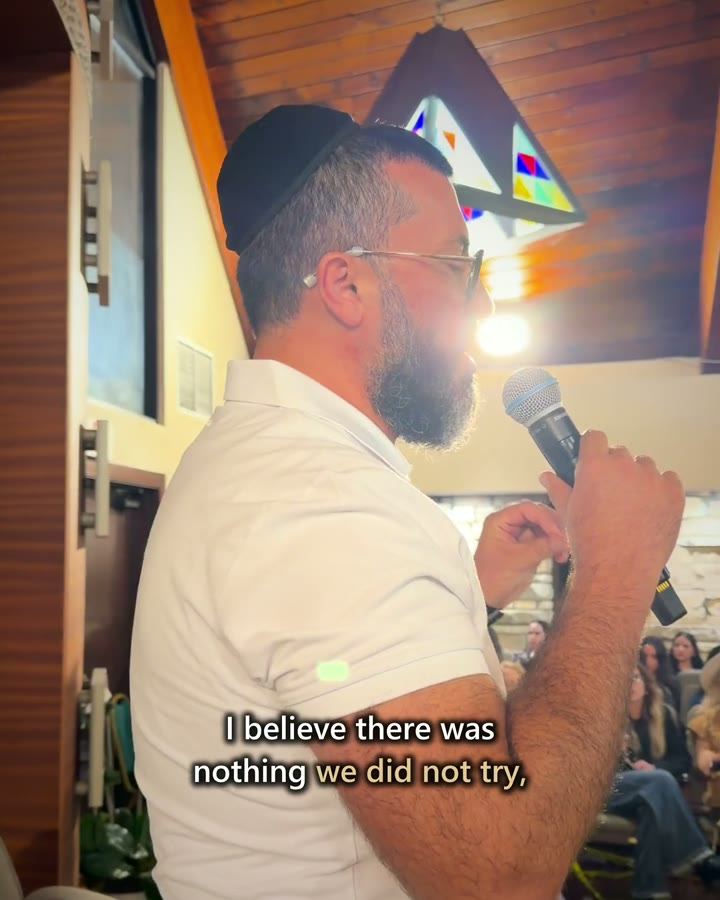
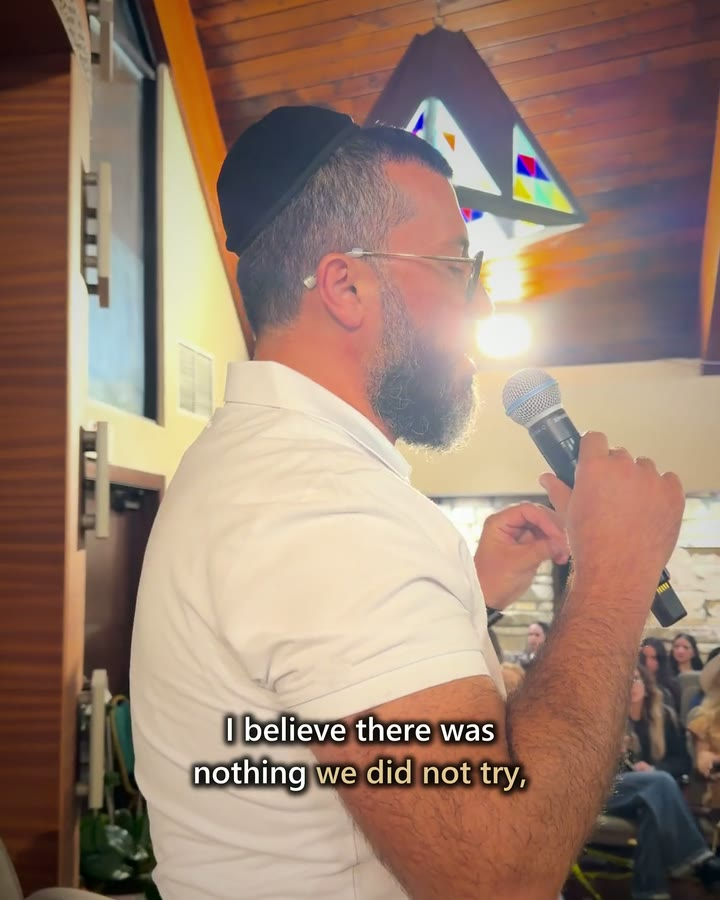
Add files via upload

diff --git a/index.html b/index.html
@@ -5,11 +5,11 @@
 <meta name="viewport" content="width=device-width, initial-scale=1, viewport-fit=cover">
 <meta name="color-scheme" content="light">
 <title>A miracle that has to be told out loud · נס שצריך לספר בקול</title>
-<meta name="description" content="A four-year-old boy is home after a five-organ transplant and 476 days in the hospital. His father speaks on emunah, in English or Hebrew.">
+<meta name="description" content="Lavi Refael is home after a five-organ transplant and 476 days in the hospital. His father speaks on emunah, in English or Hebrew.">
 <meta property="og:type" content="website">
 <meta property="og:url" content="https://lavirafael.github.io/">
 <meta property="og:title" content="A miracle that has to be told out loud · נס שצריך לספר בקול">
-<meta property="og:description" content="A four-year-old boy is home after a five-organ transplant and 476 days in the hospital. His father speaks on emunah, in English or Hebrew.">
+<meta property="og:description" content="Lavi Refael is home after a five-organ transplant and 476 days in the hospital. His father speaks on emunah, in English or Hebrew.">
 <meta property="og:image" content="https://lavirafael.github.io/speaker.jpg">
 <meta property="og:image:width" content="1080">
 <meta property="og:image:height" content="1350">
@@ -85,6 +85,8 @@ h1{font-family:var(--display);font-weight:900;color:var(--ink);line-height:.92;l
 .tally .nonum{align-items:start}
 .n .pre{font-family:var(--text);font-weight:600;font-size:1.1875rem}
 .nonum .n{display:block;width:1.75rem;height:.375rem;margin-top:.6rem;border-radius:999px;background:var(--sky-deep)}
+.tally .lead{display:block;padding-block:0 .35rem;font-weight:700}
+.tally .lead .w{font-weight:700}
 
 /* "And now he is home": louder than every number, marked in the sky colour, beside the day he rang the bell. */
 .arrival{grid-area:arrival;display:grid;grid-template-columns:minmax(0,1fr) 44%;grid-template-areas:"home pic" "cap cap";column-gap:1rem;row-gap:.625rem;align-items:center;margin-top:1.25rem}
@@ -206,7 +208,7 @@ h1{font-family:var(--display);font-weight:900;color:var(--ink);line-height:.92;l
       </div>
       <div class="headline">
         <p class="kicker">Ben Zion Cohen, Lavi’s father, speaks on emunah</p>
-        <h1>476 days, and then a seudat hoda’ah.</h1>
+        <h1>476 days, and then a seudat hodaya.</h1>
         <p class="sub">What the father said there, for anyone still waiting: Yeshuat Hashem k’heref ayin.</p>
       </div>
       <div class="film">
@@ -220,8 +222,8 @@ h1{font-family:var(--display);font-weight:900;color:var(--ink);line-height:.92;l
   <section class="facts">
     <div class="wrap facts-grid">
       <ul class="tally">
-          <li><span class="n">4</span><span class="w">years old</span></li>
-          <li class="nonum"><span class="n" aria-hidden="true"></span><span class="w">A medical move from Israel to Miami</span></li>
+          <li class="lead"><span class="w">Lavi Refael is four.</span></li>
+          <li><span class="n">8</span><span class="w">months old when he came from Israel to Miami for medical care</span></li>
           <li><span class="n">5</span><span class="w">organs, in one transplant</span></li>
           <li><span class="n">29</span><span class="w">surgeries</span></li>
           <li><span class="n">476</span><span class="w">days in the hospital</span></li>
@@ -251,7 +253,7 @@ h1{font-family:var(--display);font-weight:900;color:var(--ink);line-height:.92;l
       </div>
       <figure class="hall">
         <img src="hall.jpg" width="1080" height="1350" loading="lazy" alt="The sanctuary of Magen Avraham, the floor and the balcony full, under the wooden ceiling and the stained-glass window.">
-        <figcaption class="cap">The seudat hoda’ah at Magen Avraham, Sunny Isles Beach, November 2026. <span class="count">About 300 people.</span></figcaption>
+        <figcaption class="cap">The seudat hodaya at Magen Avraham, Sunny Isles Beach, November 2026. <span class="count">About 300 people.</span></figcaption>
       </figure>
     </div>
   </section>
@@ -329,8 +331,8 @@ h1{font-family:var(--display);font-weight:900;color:var(--ink);line-height:.92;l
   <section class="facts">
     <div class="wrap facts-grid">
       <ul class="tally">
-          <li><span class="n"><span class="pre">בן</span> 4</span><span class="w"></span></li>
-          <li class="nonum"><span class="n" aria-hidden="true"></span><span class="w">רילוקיישן רפואי מישראל למיאמי</span></li>
+          <li class="lead"><span class="w">לביא רפאל, בן ארבע.</span></li>
+          <li><span class="n"><span class="pre">בגיל</span> 8</span><span class="w">חודשים הגיע מישראל למיאמי, לטיפול רפואי</span></li>
           <li><span class="n">5</span><span class="w">איברים, בהשתלה אחת</span></li>
           <li><span class="n">29</span><span class="w">ניתוחים</span></li>
           <li><span class="n">476</span><span class="w">ימי אשפוז</span></li>
